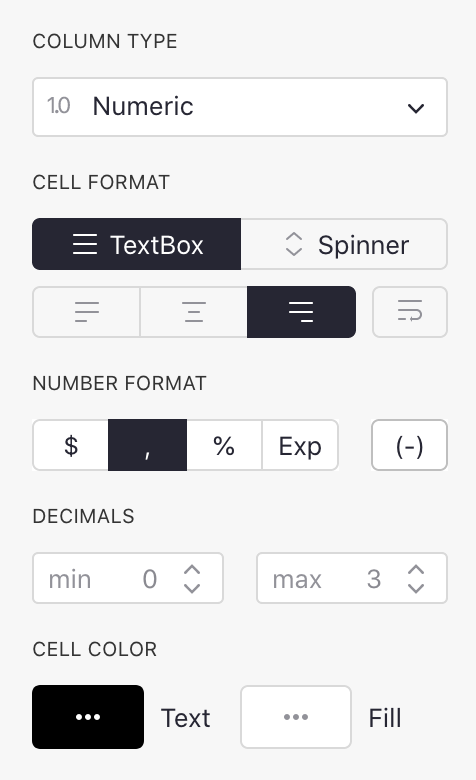
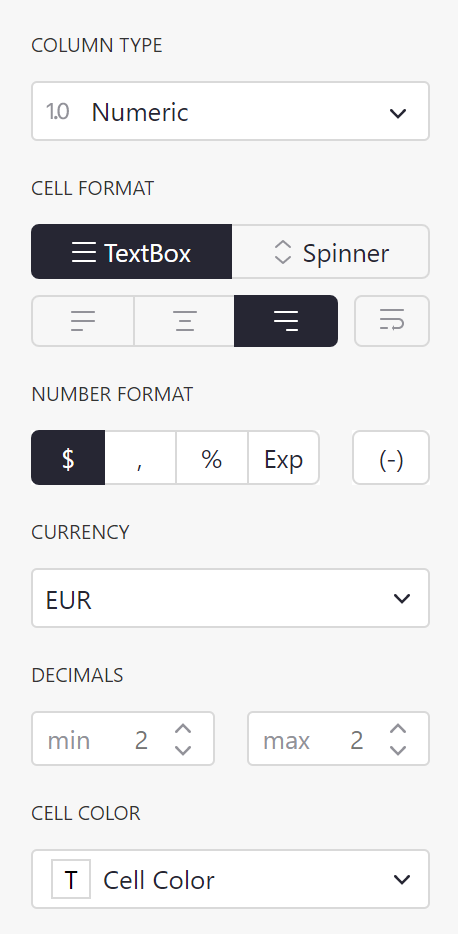
currency documentation + creator panel in glossary

diff --git a/help/col-types.md b/help/col-types.md
@@ -153,8 +153,12 @@ increasing/decreasing the number.
 
 The options under NUMBER FORMAT include:
 
-- `$`: Format for dollar amounts, with a "$" prefix, thousands separators, and defaulting to 2
-  digits after the decimal point.
+- `$`: Format for currency amounts. Selecting the `$` will add a currency prefix, thousands separators, and default to 2 digits after the decimal point. It will also open a currency selector for international currencies.
+
+  *![Format numeric](images/columns/columns-format-currency.png)*
+  {: .screenshot-half }
+  
+  Tip: You can set a document's default timezone, locale, and currency in Document Settings.
 - `,`: Turn on the display of thousands separators.
 - `%`: Show numbers as percentages. E.g. "0.5" would show as "50%".
 - `Exp`: Show numbers in exponential (or scientific) notation. E.g. "1234" would be shown as

diff --git a/help/creating-doc.md b/help/creating-doc.md
@@ -46,3 +46,15 @@ document and selecting "Add New" and then one of the Import options.
 {: .screenshot-half }
 
 You can read more about importing data at [Importing more data](imports.md).
+
+## Document settings
+
+While a document is open, you can access the document's settings from the user menu
+
+*![document-settings](images/document-settings.png){: .screenshot4}*
+{: .screenshot-half }
+
+There you can find the document's API key, as well as set the default timezone, locale, and currency for the document.
+
+*![document-settings-details](images/document-settings-details.png){: .screenshot4}*
+{: .screenshot-half }

diff --git a/help/glossary.md b/help/glossary.md
@@ -31,6 +31,10 @@ editing calendar dates; the [Reference Column Type](col-types.md#reference-colum
 is for storing and editing links to other tables;
 the [Numeric Column Type](col-types.md#numeric-columns) is for any kind of number; etc.
 
+## Creator Panel
+
+The creator panel is the right-side menu of configuration options for widgets and columns.
+
 ## Dashboard
 
 A dashboard is just another name for a page, typically organized to give a
